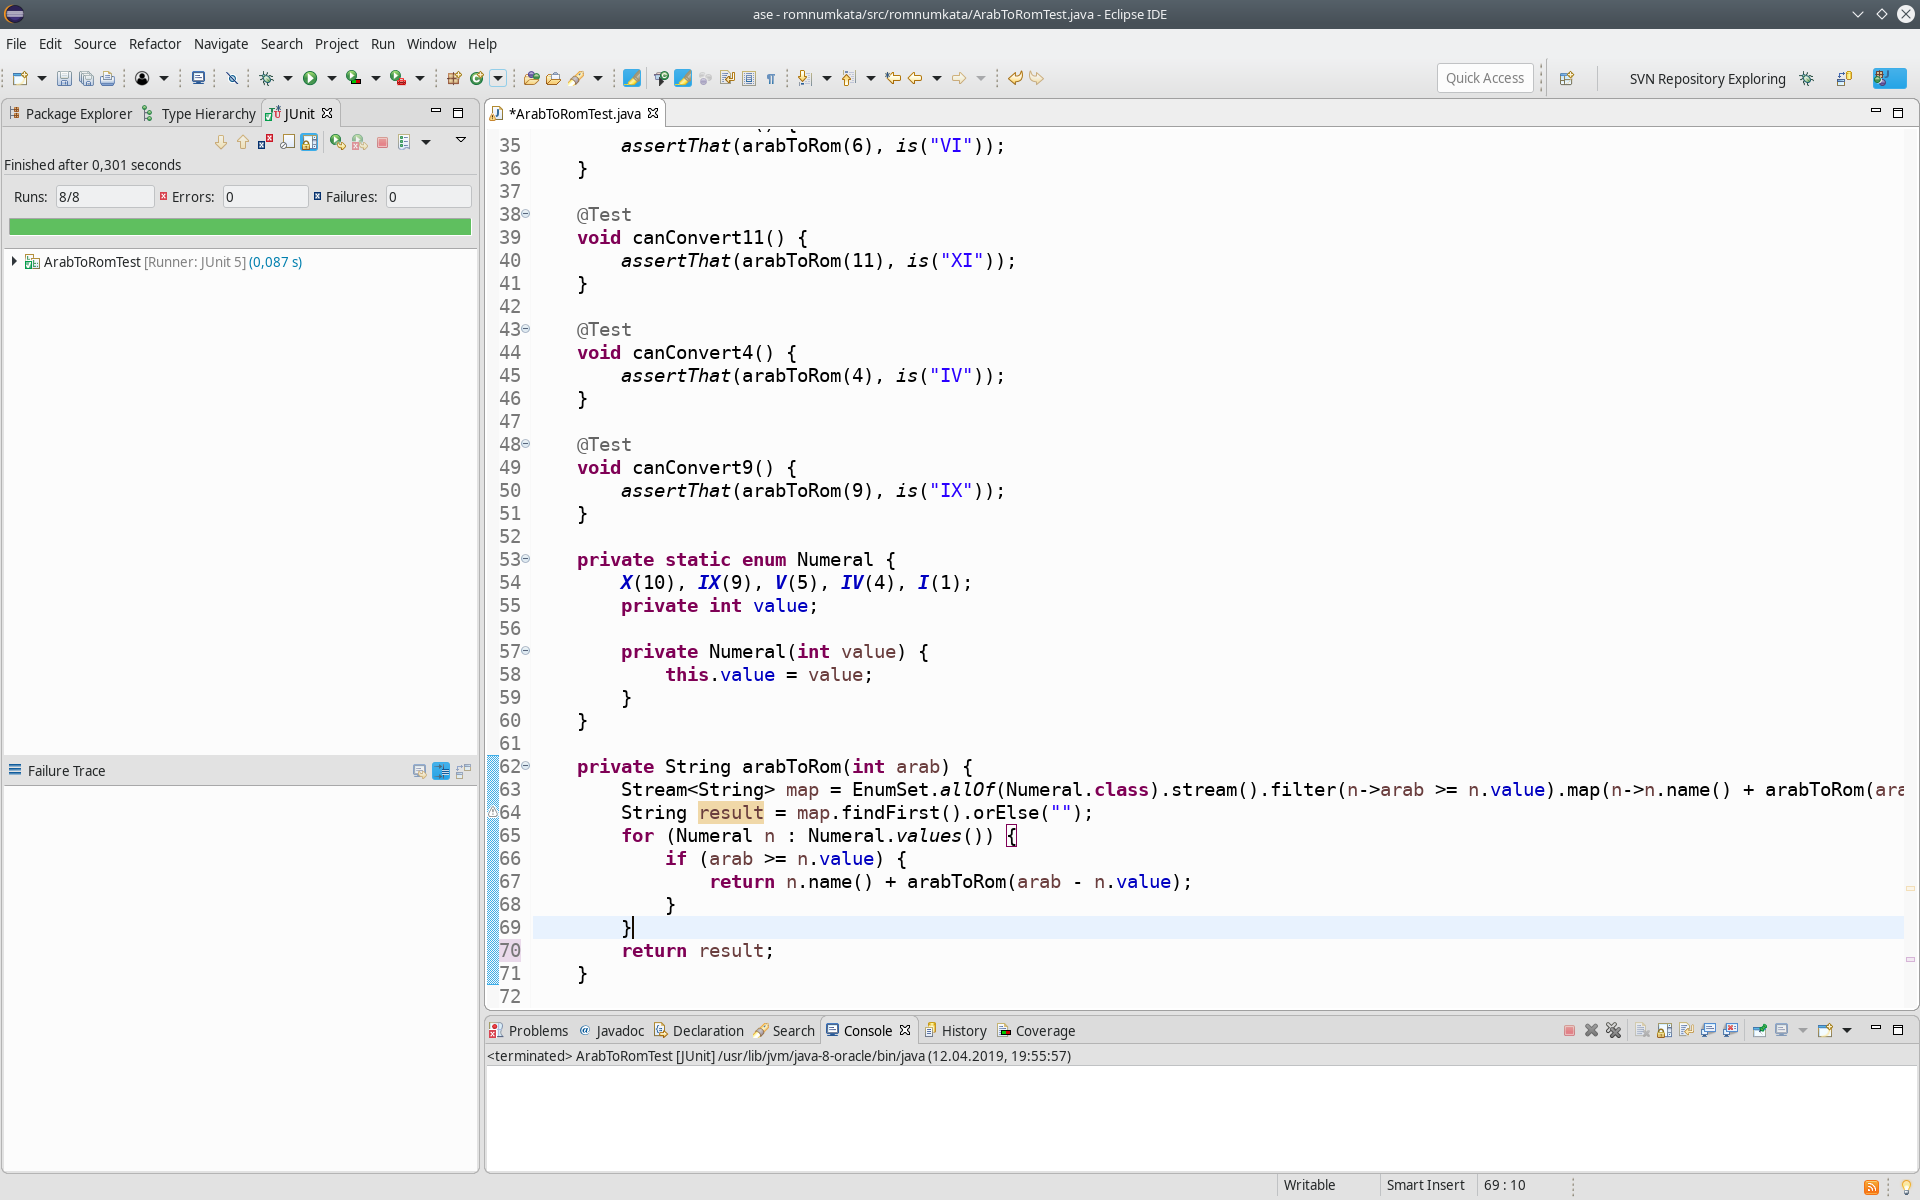
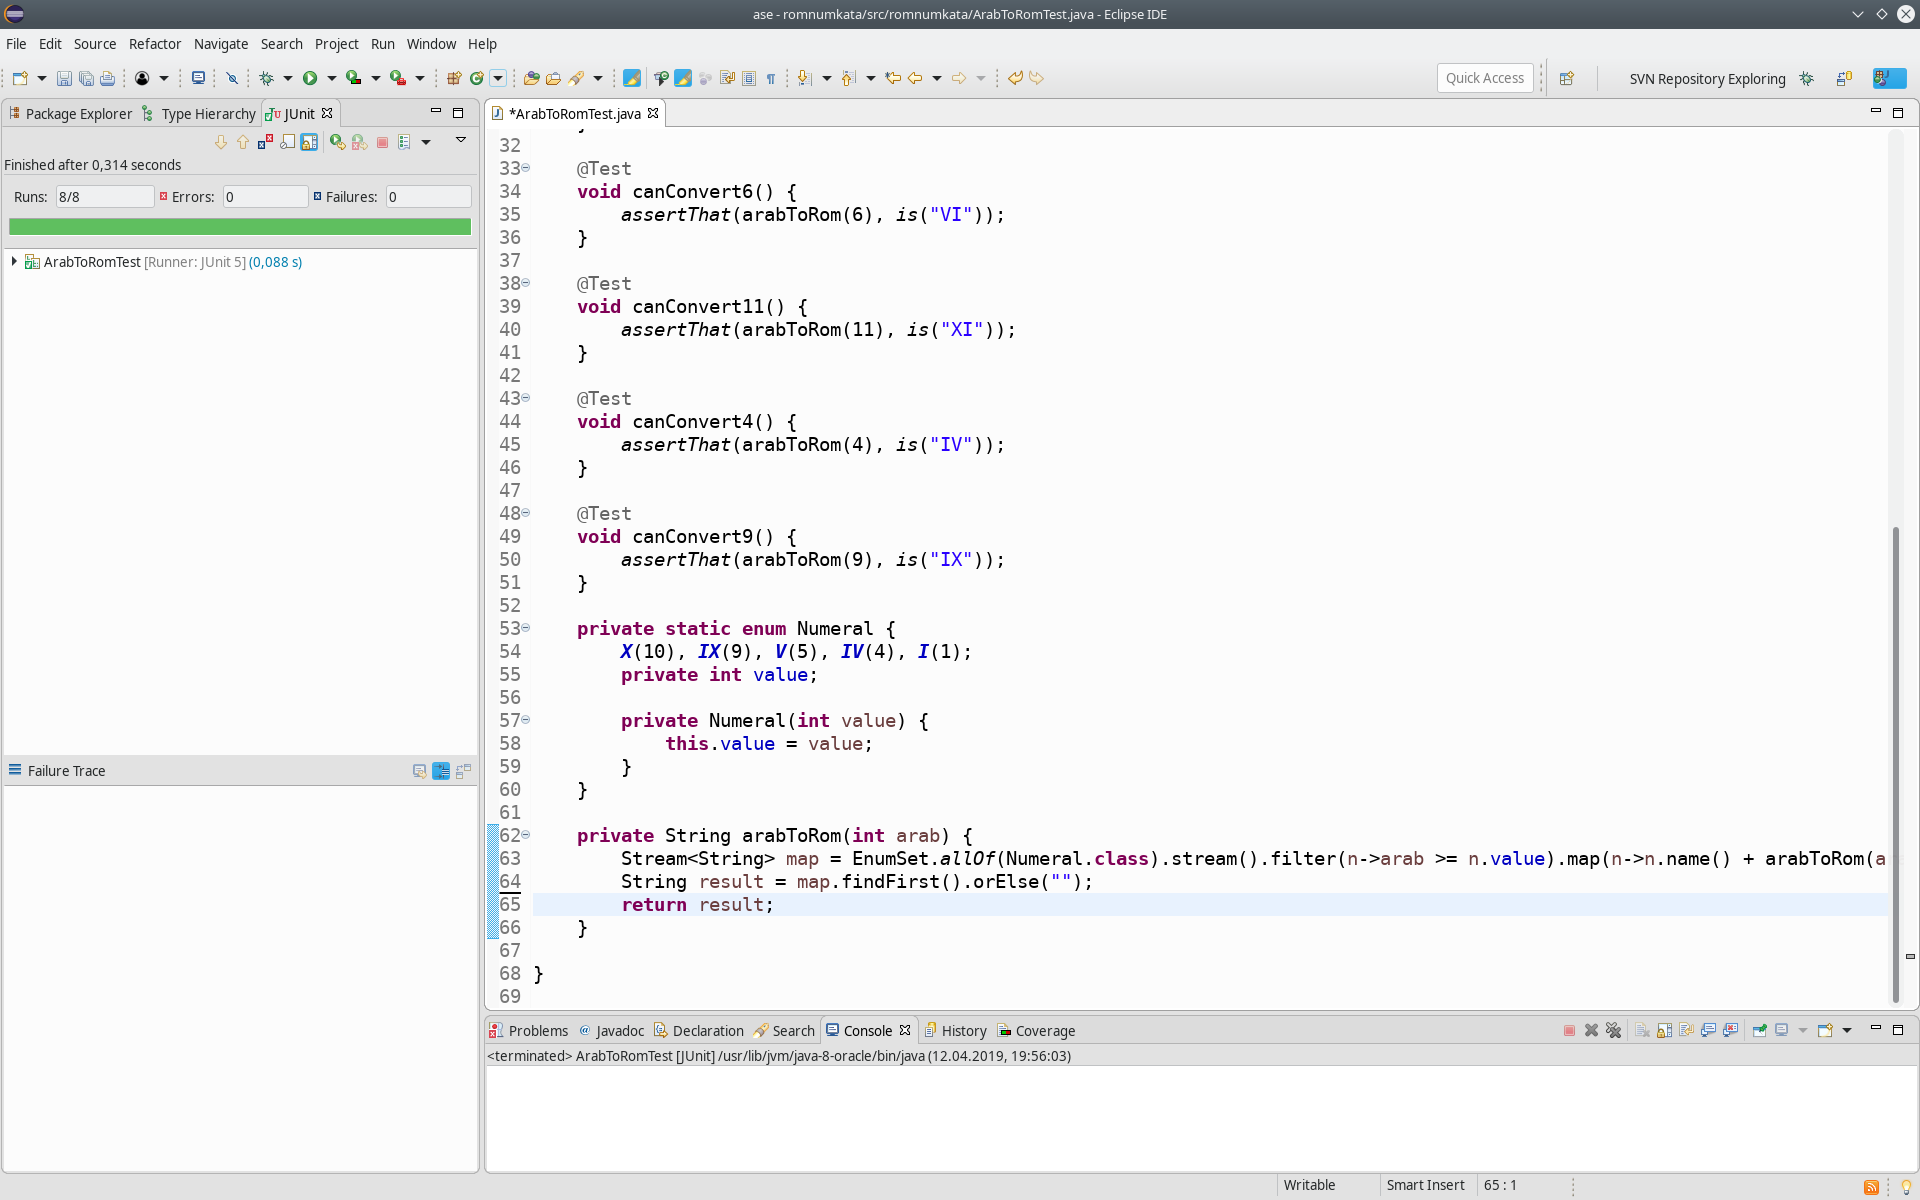
autocommit on change

diff --git a/src/romnumkata/ArabToRomTest.java b/src/romnumkata/ArabToRomTest.java
@@ -62,11 +62,6 @@ public class ArabToRomTest {
 	private String arabToRom(int arab) {
 		Stream<String> map = EnumSet.allOf(Numeral.class).stream().filter(n->arab >= n.value).map(n->n.name() + arabToRom(arab - n.value));
 		String result = map.findFirst().orElse("");
-		for (Numeral n : Numeral.values()) {
-			if (arab >= n.value) {
-				return n.name() + arabToRom(arab - n.value);
-			}
-		}
 		return result;
 	}
 
